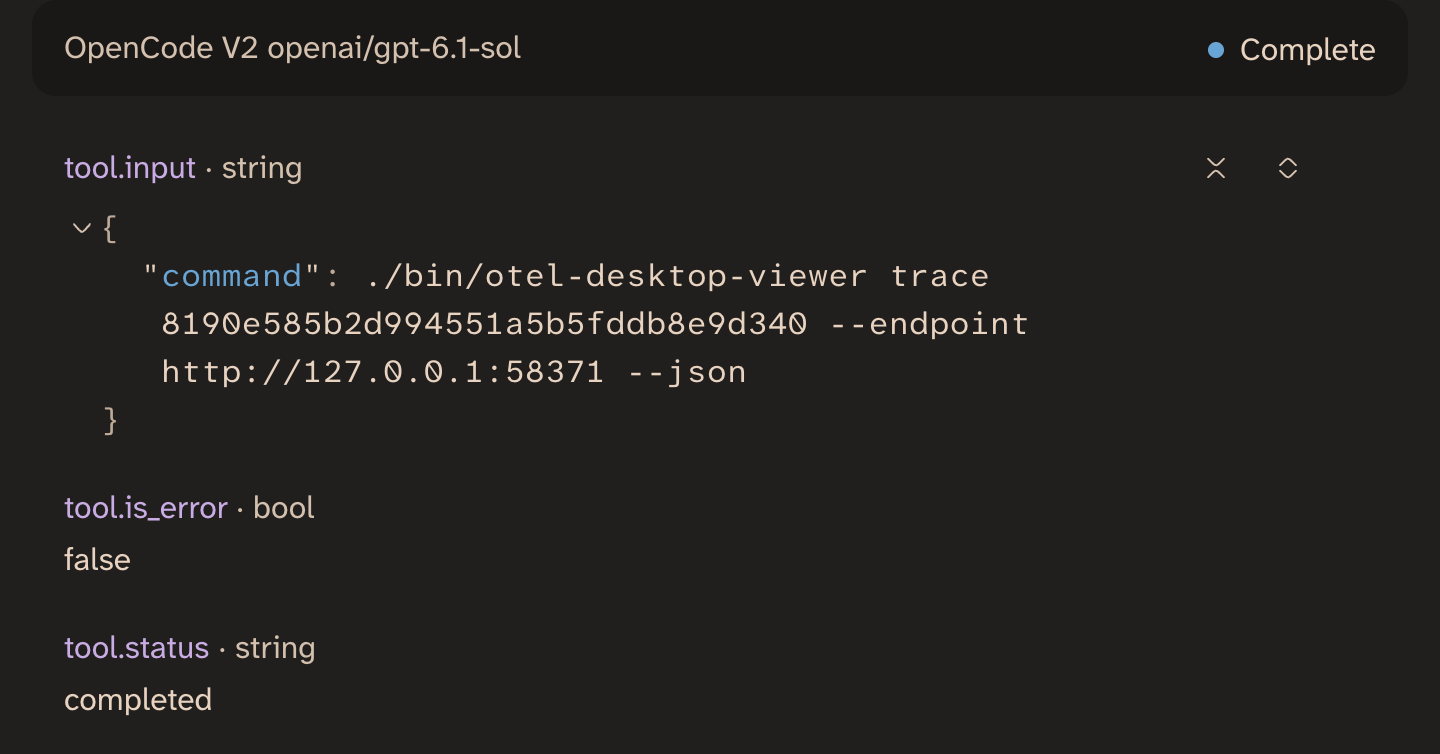
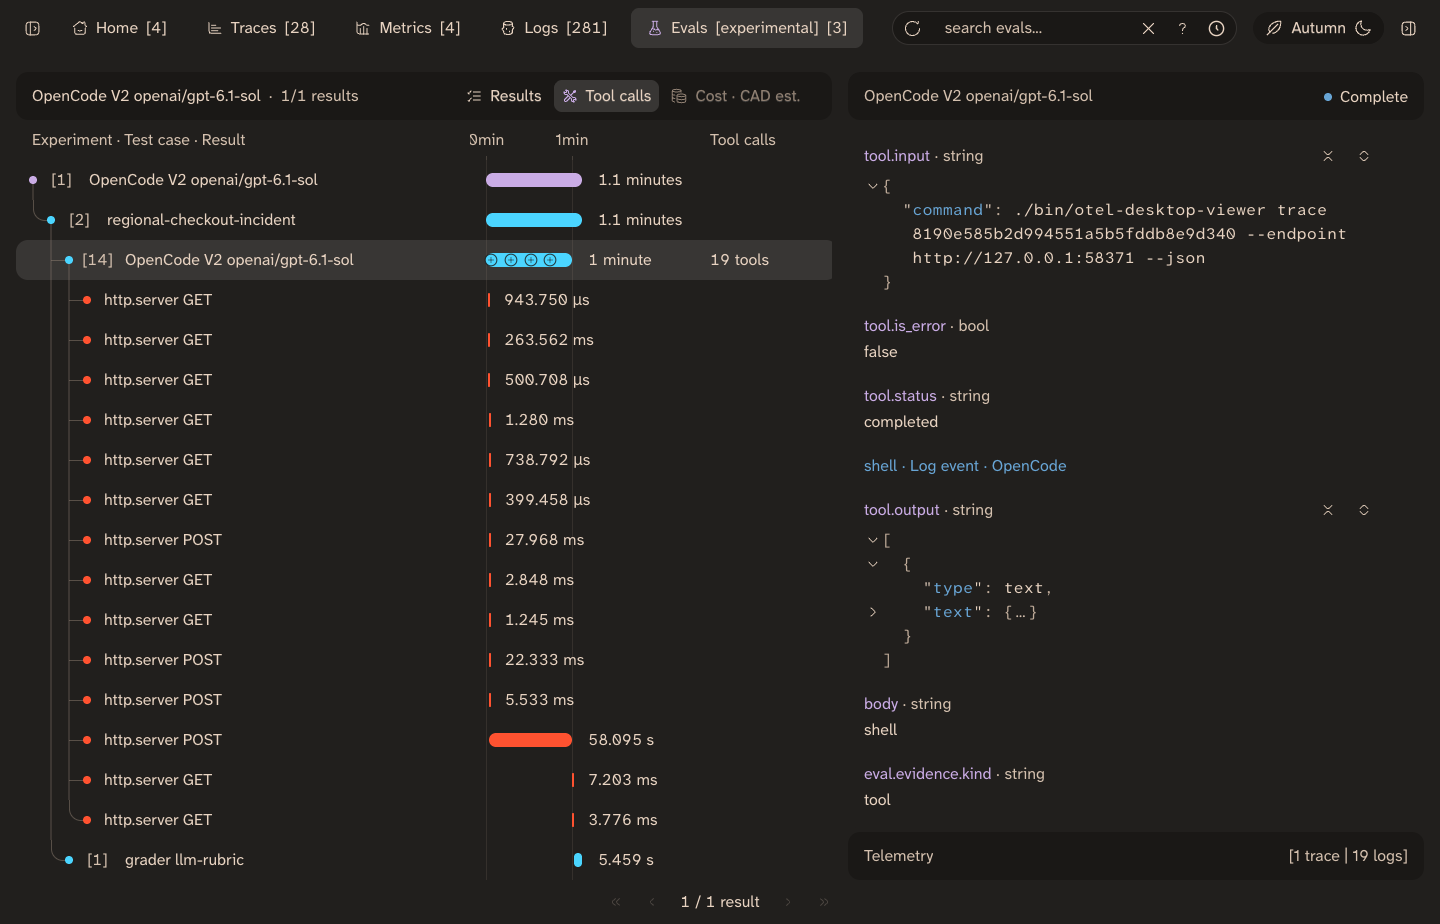
Make agent prompts copyable and show result waterfalls in screenshots

diff --git a/assets/css/extended/code-blocks.css b/assets/css/extended/code-blocks.css
@@ -30,6 +30,15 @@
   word-break: normal;
 }
 
+/* Copyable prose prompts wrap instead of scrolling like command examples. */
+.md-content .agent-prompt pre,
+.md-content .agent-prompt code,
+.md-content pre.agent-prompt,
+.md-content pre.agent-prompt code {
+  white-space: pre-wrap;
+  overflow-wrap: anywhere;
+}
+
 .chroma .hl {
   background-color: var(--syntax-highlight);
 }

diff --git a/content/posts/viewer-agent-support.md b/content/posts/viewer-agent-support.md
@@ -23,7 +23,7 @@ Let’s look at these new tools, how agents find them, and how three models used
 ## A CLI
 
 The CLI lets your agent query telemetry in a running viewer.
-First, though, it needs to know which commands are available and how to use them.
+First, though, the agent needs to know which commands are available and how to use them.
 
 It can find the instructions in a few places:
 
@@ -31,46 +31,49 @@ It can find the instructions in a few places:
 
    The [repository’s README](https://github.com/CtrlSpice/otel-desktop-viewer) includes installation instructions and a [For agents](https://github.com/CtrlSpice/otel-desktop-viewer#-for-agents) section on how to use the viewer.
 
-   > Install otel-desktop-viewer using the instructions at `https://github.com/CtrlSpice/otel-desktop-viewer`.
-   > Start it locally and tell me its URL when it’s ready to receive telemetry.
+   ```text {class="agent-prompt"}
+   Install otel-desktop-viewer using the instructions at https://github.com/CtrlSpice/otel-desktop-viewer.
+   Start it locally and tell me its URL when it’s ready to receive telemetry.
+   ```
 
 2. **Instrumenting your service**
 
-   Your agent can use the viewer to check what your service emits as it adds instrumentation.
    The CLI’s `--help` lists `skills` first; that command prints the investigation instructions.
 
-   > Add OpenTelemetry traces, metrics and logs to this service and configure it to export to my running otel-desktop-viewer.
-   > The viewer’s UI is at `http://localhost:8000`.
-   > Run a test request and check that the viewer received the resulting telemetry.
+   ```text {class="agent-prompt"}
+   Add OpenTelemetry traces, metrics and logs to this service.
+   Start otel-desktop-viewer locally and configure the service to export to it.
+   Run a test request and use the CLI’s help to find the commands for checking what arrived.
+   ```
 
 3. **Investigating telemetry in a running viewer**
 
-   Once telemetry is in the viewer, you can share its URL along with whatever you want investigated.
-   The CLI sends queries to that address.
-   To find the instructions, your agent can fetch the homepage, whose headers and HTML both link to `/llms.txt` and the JSON-RPC API description at `/openrpc.json`.
-
-   > Checkout has become slow.
-   > Use my running otel-desktop-viewer at `http://localhost:8000` to investigate the last 30 minutes.
-   > Find which operations account for the delay and link to the traces that support your answer.
-
+   The homepage links to the agent instructions at `/llms.txt`.
    We’ll [follow an investigation](#following-an-investigation) from this starting point later in the post.
+
+   ```text {class="agent-prompt"}
+   Checkout has become slow.
+   Use my running otel-desktop-viewer at http://localhost:8000 to investigate the last 30 minutes.
+   Find which operations account for the delay and link to the traces that support your answer.
+   ```
 
 4. **Using an installed skill**
 
-   You can also install the [skill](https://github.com/CtrlSpice/otel-desktop-viewer/tree/main/skills/otel-desktop-viewer) in your coding agent.
-   Its description helps the agent recognise relevant tasks and load the full instructions before contacting the viewer.
+   The installed [skill](https://github.com/CtrlSpice/otel-desktop-viewer/tree/main/skills/otel-desktop-viewer) helps the agent recognise relevant tasks and load the instructions before contacting the viewer.
 
-   > Use the otel-desktop-viewer skill to check `order-service` for errors over the last 30 minutes.
-   > My viewer is running at `http://localhost:8000`.
-   > Summarise the different failures and link to an example trace for each.
+   ```text {class="agent-prompt"}
+   Use the otel-desktop-viewer skill to check order-service for errors over the last 30 minutes.
+   My viewer is running at http://localhost:8000.
+   Summarise the different failures and link to an example trace for each.
+   ```
 
-The CLI’s `skills` command and `/llms.txt` return the same bundled `SKILL.md`.
-I maintain that file in one place, so both return instructions that match the viewer version you’re running.
+`skills` and `/llms.txt` serve the same bundled guide, so the instructions match your viewer version.
 
 ### Help
 
-From the command list, your agent can open a particular command’s `--help` for its arguments, defaults and examples.
-For a slow `checkout` request, `traces --help` shows example searches and the flags for filtering by service or changing the time window.
+For the slow-checkout prompt above, your agent needs to find relevant traces.
+
+`traces --help` shows the service and time-window flags, along with defaults and example searches.
 
 {{< figure src="/images/viewer-agent-support/traces-help.png" alt="Help for otel-desktop-viewer traces on a dark background. Examples show searching all traces, filtering to checkout over the last 30 minutes, and requesting JSON for an explicit time range. Flag descriptions include the defaults: the last hour, at most 25 summaries and http://localhost:8000." >}}
 
@@ -278,7 +281,7 @@ The command excerpts below omit the run’s temporary executable path and `--end
      8190e585b2d994551a5b5fddb8e9d340 --json
    ```
 
-   {{< figure src="/images/viewer-agent-support/sol-provider-tool-call.png" width="1440" height="754" alt="Close-up of Sol’s recorded trace command in Evals. It inspects trace 8190e585b2d994551a5b5fddb8e9d340 with JSON output. The recorded tool status is completed and tool.is_error is false." >}}
+   {{< figure src="/images/viewer-agent-support/sol-provider-tool-call.png" width="1440" height="924" alt="Sol’s expanded result waterfall beside its recorded trace command in Evals. It inspects trace 8190e585b2d994551a5b5fddb8e9d340 with JSON output. The recorded tool status is completed and tool.is_error is false." >}}
 
    | Operation | Duration |
    | --- | ---: |
@@ -308,7 +311,7 @@ I recorded the tool calls and final answers, then asked Sol to grade each invest
 To pass, an answer had to compare west’s slowdown and failures with healthy east, trace most of the delay to payment-provider calls, and explain the timeout followed by the circuit-open rejections.
 It also had to separate the card decline from the availability failures and avoid inventing an unsupported root cause for the provider delay.
 
-{{< figure src="/images/viewer-agent-support/sol-answer-and-grade.png" width="1440" height="1360" alt="Sol’s recorded answer and expanded grader explanation in Evals. The answer compares west’s 837.5 ms incident mean and 4/8 failures with healthy east at 200 ms and no failures. The Pass explanation confirms the provider delay, timeout, circuit-open rejections, separate card decline and distinction between correlation and causation." >}}
+{{< figure src="/images/viewer-agent-support/sol-answer-and-grade.png" width="1440" height="964" alt="Sol’s expanded result waterfall beside its recorded answer and grader explanation in Evals. The answer compares west’s 837.5 ms incident mean and 4/8 failures with healthy east at 200 ms and no failures. The Pass explanation confirms the provider delay, timeout, circuit-open rejections, separate card decline and distinction between correlation and causation." >}}
 
 All three runs completed without execution errors and passed grading.
 
